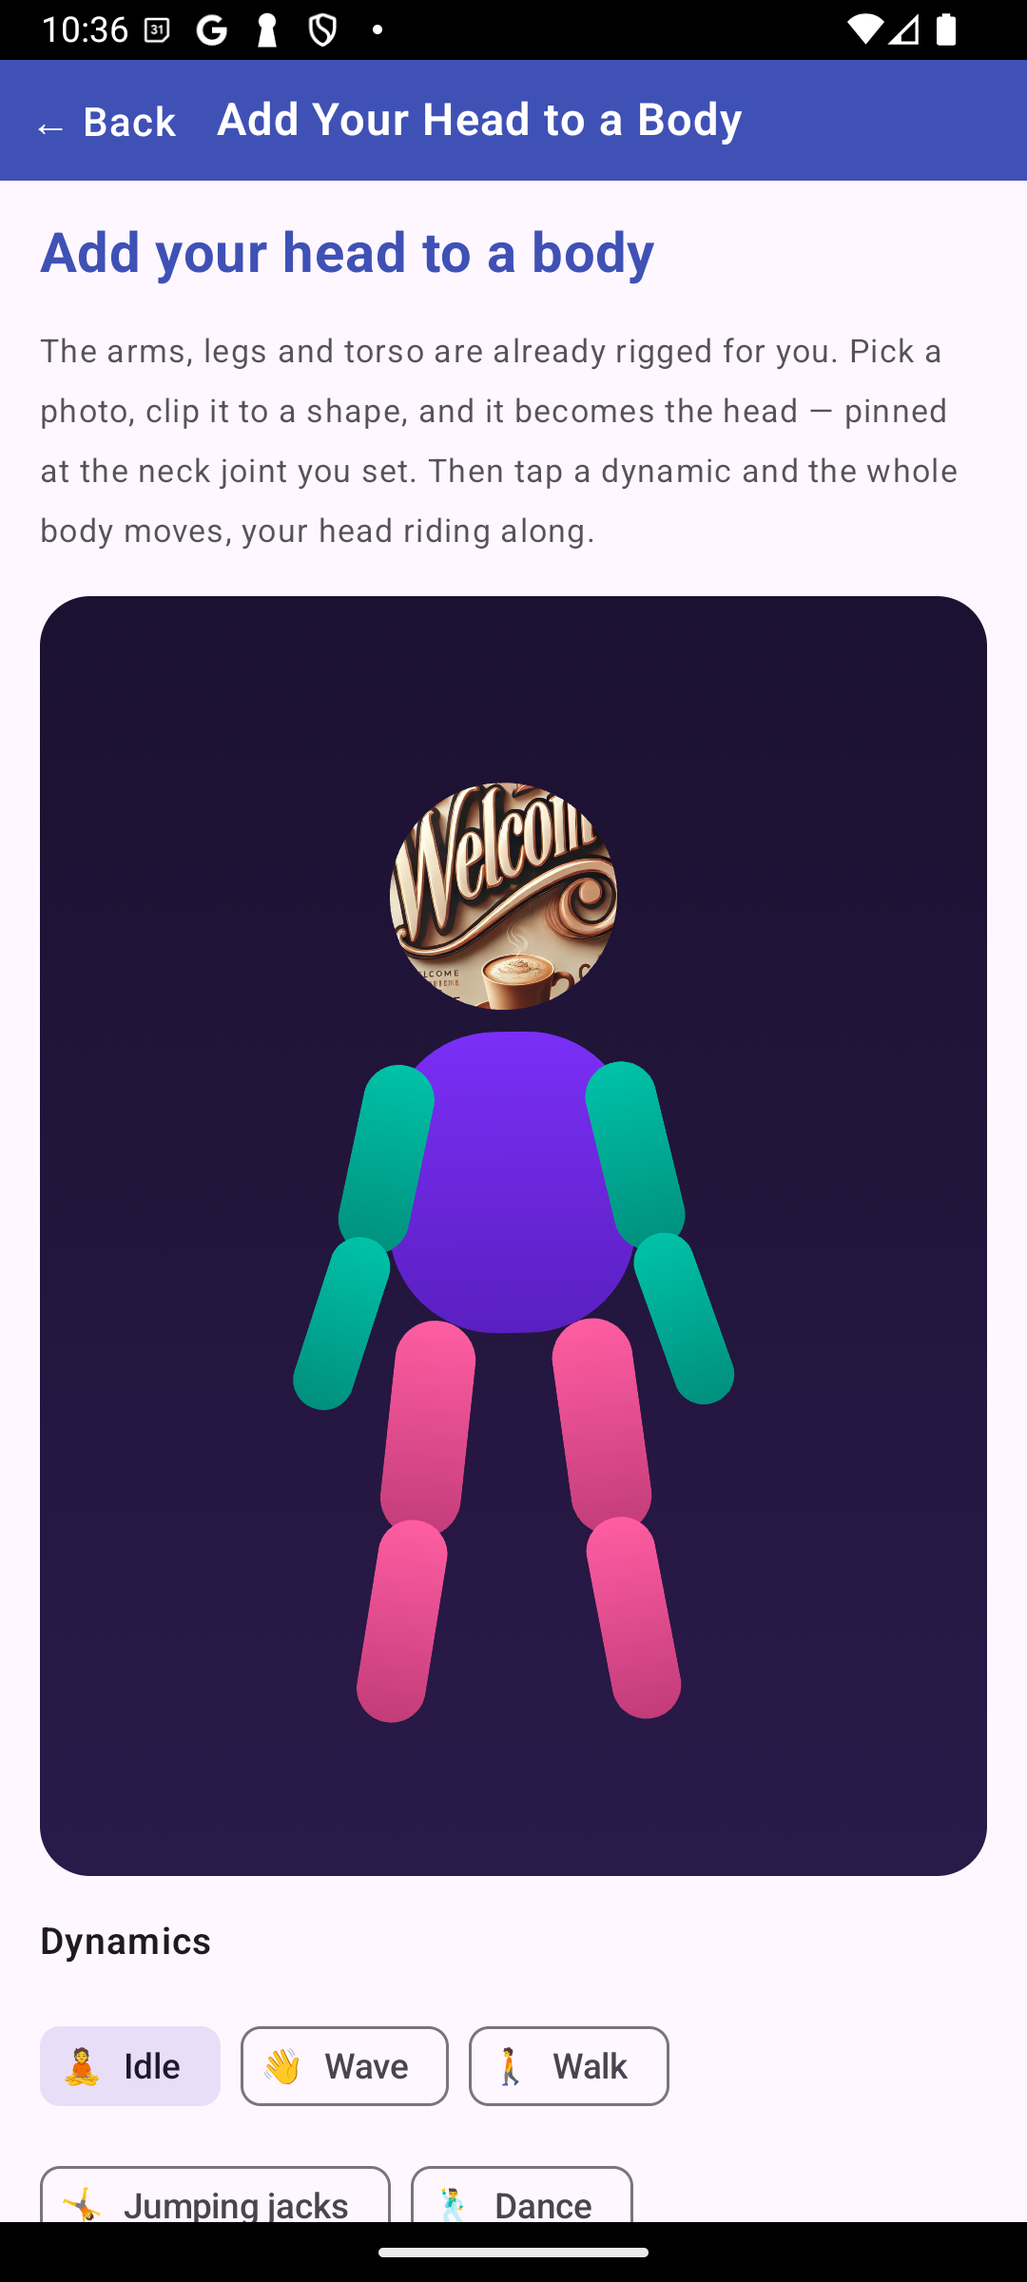
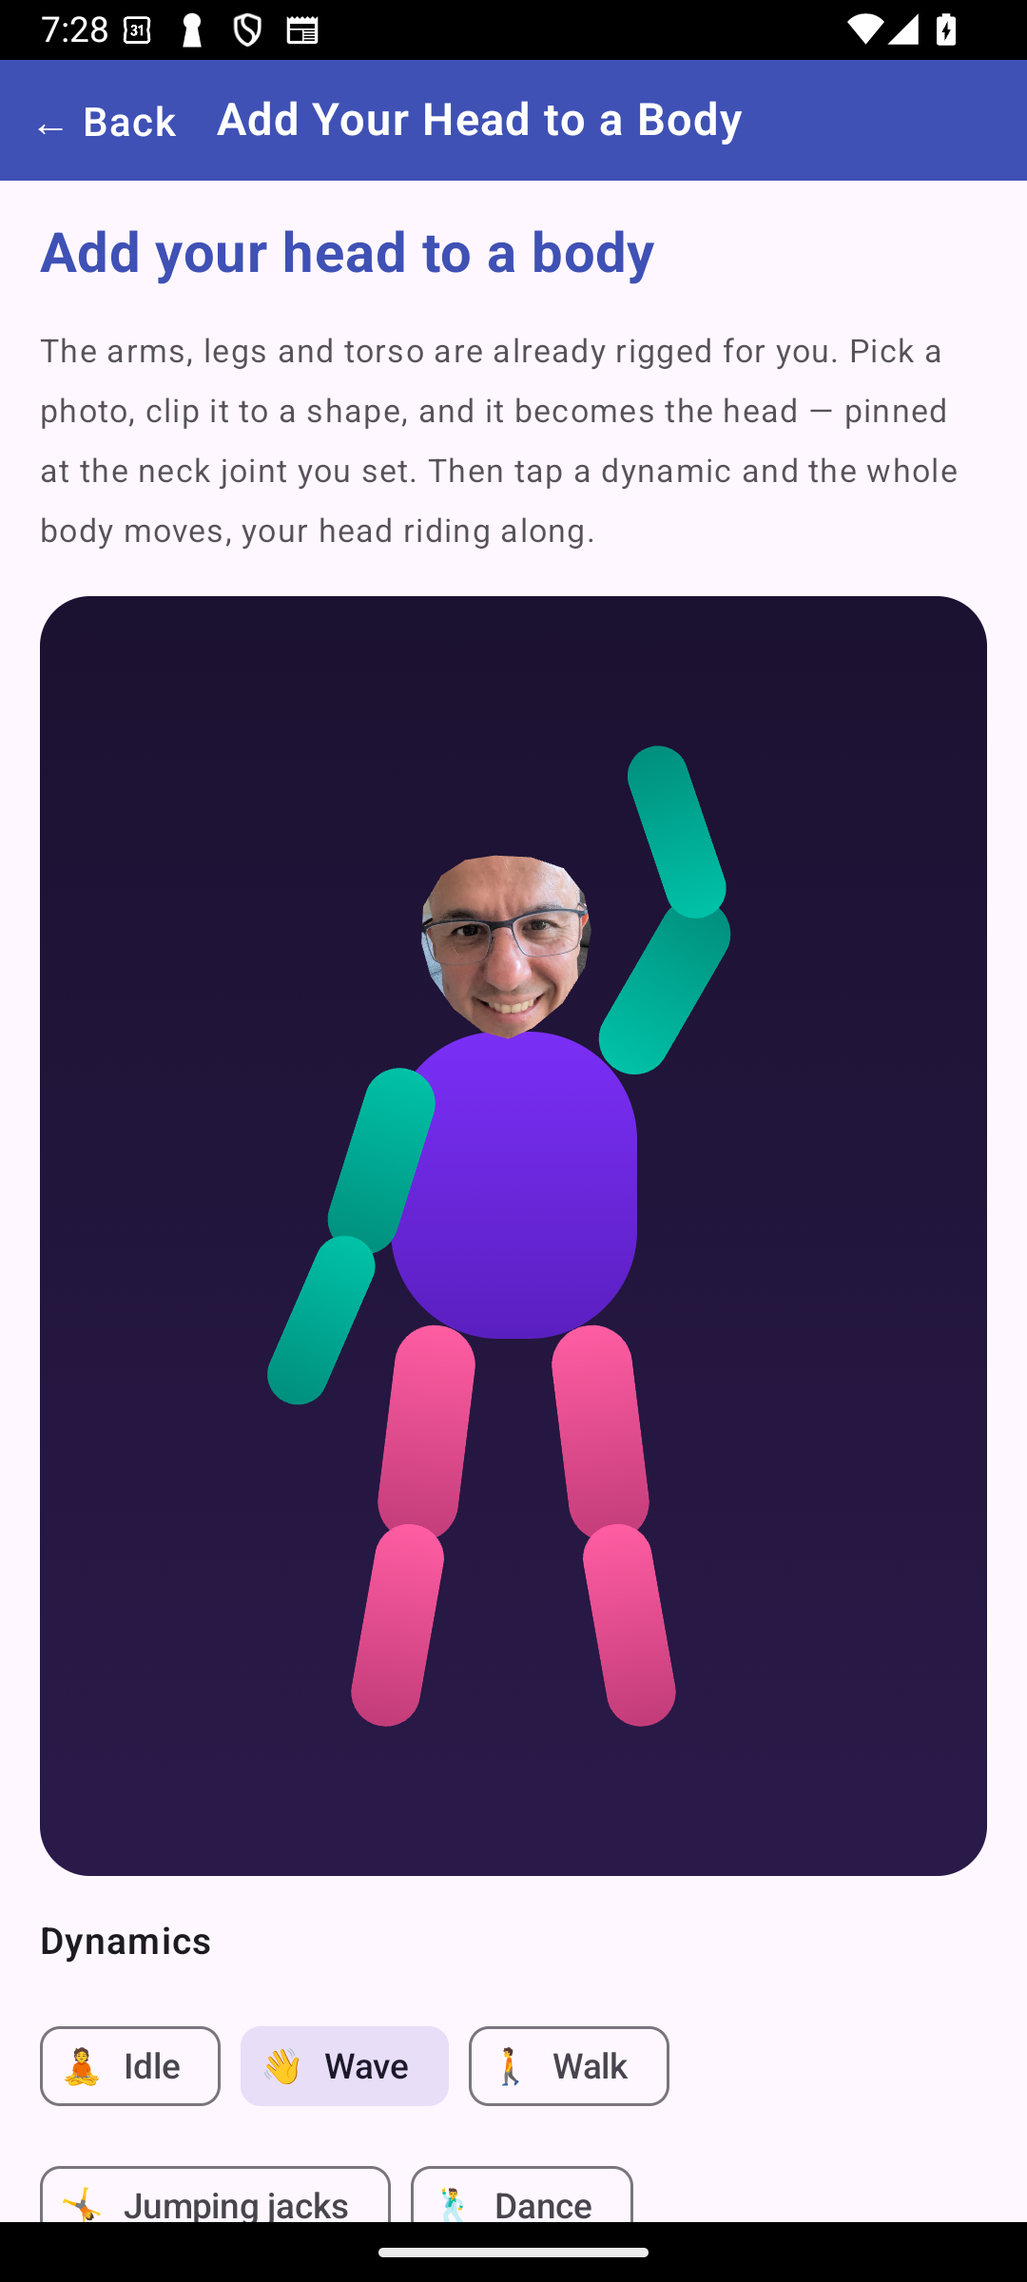
feat(shape): free-form polygon lasso (OGPolygonShape) + OGImageView clipShape — 1.3.0
New com.solidkey.painpoints.shape.OGPolygonShape — a Compose Shape built from an ordered list of normalized 0..1 vertices joined by line segments (auto-closed) — plus OGPoint and the pure scalePolygonPoints helper. It's the AI-friendly clip primitive: the outline is just data, so a segmentation model or an on-image finger-draw can produce it with no external editor.

OGImageView gains one optional trailing param clipShape: Shape? = null; when set it overrides displayShape/cornerRadius and clips to that outline via the same GPU Modifier.clip mask (no runtime cost for a still image). Fully backward-compatible.

Docs: docs/POLYGON_SHAPE.md, README feature row + code sample, llms.txt API index, CHANGELOG 1.3.0, version 1.2.0 -> 1.3.0. Tests: 5 new pure-math tests (green). Also refreshes the body-rig README screenshots to show a real head cut out by the lasso and seated on the torso.

diff --git a/library/src/commonMain/kotlin/com/solidkey/painpoints/shape/OGPolygonShape.kt b/library/src/commonMain/kotlin/com/solidkey/painpoints/shape/OGPolygonShape.kt
@@ -1,0 +1,64 @@
+package com.solidkey.painpoints.shape
+
+import androidx.compose.ui.geometry.Size
+import androidx.compose.ui.graphics.Outline
+import androidx.compose.ui.graphics.Path
+import androidx.compose.ui.graphics.Shape
+import androidx.compose.ui.unit.Density
+import androidx.compose.ui.unit.LayoutDirection
+
+/**
+ * A single vertex in **normalized** coordinates: `(0,0)` = top-left of the target box,
+ * `(1,1)` = bottom-right. Values outside `0..1` are clamped when the polygon is rasterized,
+ * so a segmentation model / detector or a finger-drawn outline can hand over raw coordinates
+ * without worrying about the exact box size.
+ */
+data class OGPoint(val x: Float, val y: Float)
+
+/**
+ * A free-form clip shape built from an ordered list of [points] joined by straight **line
+ * segments** — a polygon "lasso". This is the AI-friendly primitive: the outline is just data
+ * (a `List<OGPoint>` in `0..1` space), so the vertices an on-image drawing OR a segmentation
+ * model produces drop straight in with no external image editor. The polygon is always closed
+ * (the last point links back to the first).
+ *
+ * Clipping is the same `Modifier.clip(shape)` GPU mask the built-in [OGShapeType]s use, so for a
+ * still image it is drawn once = no runtime cost. Pass it to
+ * [com.solidkey.painpoints.image.OGImageView]'s `clipShape` (or to any `Modifier.clip`) to keep
+ * only the region inside the outline — e.g. lasso a head out of a photo, no external tool.
+ *
+ * Fewer than 3 points is degenerate (no enclosed area) and yields an empty outline (nothing
+ * shown) rather than throwing.
+ */
+class OGPolygonShape(val points: List<OGPoint>) : Shape {
+    override fun createOutline(size: Size, layoutDirection: LayoutDirection, density: Density): Outline {
+        val abs = scalePolygonPoints(points, size.width, size.height)
+        val path = Path().apply {
+            if (abs.size >= 3) {
+                moveTo(abs[0].x, abs[0].y)
+                for (i in 1 until abs.size) lineTo(abs[i].x, abs[i].y)
+                close()
+            }
+        }
+        return Outline.Generic(path)
+    }
+
+    companion object {
+        /** Convenience builder from raw `(x, y)` pairs in normalized `0..1` space. */
+        fun of(vararg points: Pair<Float, Float>): OGPolygonShape =
+            OGPolygonShape(points.map { OGPoint(it.first, it.second) })
+    }
+}
+
+/**
+ * Maps normalized [points] (`0..1`) onto a [width]×[height] box, clamping every coordinate into
+ * range so out-of-bounds input can't escape the box. Returns an empty list for a degenerate
+ * polygon (fewer than 3 points). Pure + platform-independent so it can be unit-tested directly;
+ * [OGPolygonShape.createOutline] is a thin wrapper over it.
+ */
+fun scalePolygonPoints(points: List<OGPoint>, width: Float, height: Float): List<OGPoint> {
+    if (points.size < 3) return emptyList()
+    return points.map { p ->
+        OGPoint(p.x.coerceIn(0f, 1f) * width, p.y.coerceIn(0f, 1f) * height)
+    }
+}

diff --git a/library/src/commonTest/kotlin/com/solidkey/painpoints/shape/OGPolygonShapeTest.kt b/library/src/commonTest/kotlin/com/solidkey/painpoints/shape/OGPolygonShapeTest.kt
@@ -1,0 +1,58 @@
+package com.solidkey.painpoints.shape
+
+import kotlin.test.Test
+import kotlin.test.assertEquals
+import kotlin.test.assertTrue
+
+/**
+ * Covers the pure derivation behind [OGPolygonShape] — [scalePolygonPoints], which maps the
+ * normalized (0..1) lasso vertices onto a concrete box and clamps out-of-range input.
+ * [OGPolygonShape.createOutline] is a thin Path wrapper over exactly this, so pinning the math
+ * here pins the clip behaviour (correct scaling, clamping, and graceful degenerate handling).
+ */
+class OGPolygonShapeTest {
+
+    private val triangle = listOf(OGPoint(0.5f, 0f), OGPoint(1f, 1f), OGPoint(0f, 1f))
+
+    @Test
+    fun scalesNormalizedPointsToBox() {
+        val scaled = scalePolygonPoints(triangle, width = 200f, height = 100f)
+        assertEquals(3, scaled.size)
+        assertEquals(OGPoint(100f, 0f), scaled[0])   // 0.5*200, 0*100
+        assertEquals(OGPoint(200f, 100f), scaled[1]) // 1*200, 1*100
+        assertEquals(OGPoint(0f, 100f), scaled[2])   // 0*200, 1*100
+    }
+
+    @Test
+    fun clampsOutOfRangeCoordinatesIntoBox() {
+        val pts = listOf(OGPoint(-0.5f, 2f), OGPoint(1.5f, -1f), OGPoint(0.5f, 0.5f))
+        val scaled = scalePolygonPoints(pts, width = 100f, height = 100f)
+        // -0.5 -> 0, 2 -> 1 (i.e. 100); 1.5 -> 1 (100), -1 -> 0; midpoint stays put.
+        assertEquals(OGPoint(0f, 100f), scaled[0])
+        assertEquals(OGPoint(100f, 0f), scaled[1])
+        assertEquals(OGPoint(50f, 50f), scaled[2])
+        // Nothing escapes the box.
+        assertTrue(scaled.all { it.x in 0f..100f && it.y in 0f..100f })
+    }
+
+    @Test
+    fun degeneratePolygonYieldsEmpty() {
+        assertTrue(scalePolygonPoints(emptyList(), 100f, 100f).isEmpty())
+        assertTrue(scalePolygonPoints(listOf(OGPoint(0f, 0f)), 100f, 100f).isEmpty())
+        assertTrue(scalePolygonPoints(listOf(OGPoint(0f, 0f), OGPoint(1f, 1f)), 100f, 100f).isEmpty())
+    }
+
+    @Test
+    fun ofBuilderMatchesPointList() {
+        val a = OGPolygonShape.of(0.5f to 0f, 1f to 1f, 0f to 1f)
+        assertEquals(triangle, a.points)
+    }
+
+    @Test
+    fun preservesVertexOrder() {
+        // Order matters for line-segment shapes (winding) — scaling must not reorder.
+        val scaled = scalePolygonPoints(triangle, 10f, 10f)
+        assertEquals(5f, scaled[0].x, 0.0001f)  // first stays first (apex)
+        assertEquals(0f, scaled[2].x, 0.0001f)  // last stays last (bottom-left)
+    }
+}

diff --git a/library/src/commonMain/kotlin/com/solidkey/painpoints/image/OGImageView.kt b/library/src/commonMain/kotlin/com/solidkey/painpoints/image/OGImageView.kt
@@ -12,6 +12,7 @@ import androidx.compose.ui.Alignment
 import androidx.compose.ui.Modifier
 import androidx.compose.ui.draw.clip
 import androidx.compose.ui.graphics.Color
+import androidx.compose.ui.graphics.Shape
 import androidx.compose.ui.graphics.painter.ColorPainter
 import androidx.compose.ui.graphics.painter.Painter
 import androidx.compose.ui.layout.ContentScale
@@ -46,6 +47,10 @@ fun OGImageView(
     // CenterStart the left edge, etc. Center = default (unchanged behavior). It also positions a
     // letterboxed image when contentScale = Fit.
     alignment: Alignment = Alignment.Center,
+    // ✂ Free-form clip override. When non-null (e.g. an OGPolygonShape lasso) it takes precedence
+    // over displayShape/cornerRadius and masks the photo to that arbitrary outline — the same GPU
+    // clip, just any Path. Use it to keep only a hand-/AI-outlined region (e.g. lasso a head).
+    clipShape: Shape? = null,
     transformations: SnapshotStateList<OGImageTransformation> = mutableStateListOf(),
     draggable: Boolean = false,
     x: MutableState<Float>? = null,
@@ -126,13 +131,14 @@ fun OGImageView(
 
     // 🔷 Shape crop. RECTANGLE + 0dp corner is a no-op (default), so behavior is unchanged for
     // existing callers; any other shape masks the photo via a GPU clip (drawn once = no perf loss).
-    val isShaped = displayShape != OGShapeType.RECTANGLE || cornerRadius > 0.dp
-    val clipShape = remember(displayShape, cornerRadius) { displayShape.toShape(cornerRadius) }
+    val isShaped = clipShape != null || displayShape != OGShapeType.RECTANGLE || cornerRadius > 0.dp
+    val builtInShape = remember(displayShape, cornerRadius) { displayShape.toShape(cornerRadius) }
+    val effectiveShape = clipShape ?: builtInShape
 
     Box(
         modifier = modifier
             .zIndex(zIndex) // ✅ apply stacking order
-            .then(if (isShaped) Modifier.clip(clipShape) else Modifier) // 🔷 crop photo into shape
+            .then(if (isShaped) Modifier.clip(effectiveShape) else Modifier) // 🔷 crop photo into shape
             .then(
                 if (effectiveGestureHandler != null)
                     Modifier.ogPointerGestureWrapper(

diff --git a/docs/POLYGON_SHAPE.md b/docs/POLYGON_SHAPE.md
@@ -1,0 +1,95 @@
+# Free-form Polygon Lasso — `com.solidkey.painpoints.shape.OGPolygonShape` (KMPMedia 1.3.0)
+
+The built-in [`OGShapeType`](../library/src/commonMain/kotlin/com/solidkey/painpoints/shape/OGShape.kt)
+values (circle / triangle / diamond / …) cover the common cases. `OGPolygonShape` covers the rest:
+clip a photo or video to **any** outline — a head, a logo, a hand-drawn region — described as a list
+of straight **line segments**.
+
+It is a plain Compose `Shape`, so it drops into the same `Modifier.clip(shape)` GPU mask the built-in
+shapes use — for a still image, drawn once = **no runtime cost**.
+
+## AI-friendly by design
+
+The outline is *just data*: an ordered list of vertices in **normalized `0..1`** space
+(`(0,0)` = top-left of the box, `(1,1)` = bottom-right), joined by line segments and auto-closed. That
+means the exact same list can come from:
+
+- an **AI / segmentation model** that outputs the region boundary of an object, or
+- a **user drawing** the outline on the image with a finger,
+
+…and it drops straight in — **no external image editor**. Coordinates outside `0..1` are clamped into
+the box, so raw detector output is safe to pass.
+
+## API
+
+```kotlin
+// A vertex in normalized 0..1 coordinates (top-left origin).
+data class OGPoint(val x: Float, val y: Float)
+
+// A free-form polygon built from an ordered list of points joined by line segments (auto-closed).
+// Fewer than 3 points is degenerate → empty outline (nothing shown), never throws.
+class OGPolygonShape(val points: List<OGPoint>) : Shape {
+    companion object {
+        fun of(vararg points: Pair<Float, Float>): OGPolygonShape   // convenience: raw (x, y) pairs
+    }
+}
+
+// Pure, platform-independent helper the Shape wraps (unit-tested directly): maps + clamps points to a box.
+fun scalePolygonPoints(points: List<OGPoint>, width: Float, height: Float): List<OGPoint>
+```
+
+`OGImageView` gained one optional param to accept it:
+
+```kotlin
+@Composable fun OGImageView(
+    source: OGSourceType,
+    // …
+    clipShape: Shape? = null,   // NEW: when non-null, overrides displayShape/cornerRadius and clips to this outline
+    // …
+)
+```
+
+`clipShape` is fully backward-compatible: leave it `null` (the default) and `displayShape` +
+`cornerRadius` behave exactly as before. Because `OGPolygonShape` is an ordinary `Shape`, you can also
+apply it to **any** composable with `Modifier.clip(OGPolygonShape.of(...))` — including a video surface.
+
+## Example — cut out a head
+
+```kotlin
+import com.solidkey.painpoints.shape.OGPolygonShape
+
+// An outline the AI traced around the head (or the user drew), in 0..1 space.
+val head = OGPolygonShape.of(
+    0.48f to 0.02f, 0.64f to 0.04f, 0.78f to 0.10f, 0.86f to 0.22f,
+    0.88f to 0.38f, 0.84f to 0.54f, 0.73f to 0.69f, 0.59f to 0.79f,
+    0.48f to 0.83f, 0.37f to 0.79f, 0.25f to 0.68f, 0.16f to 0.53f,
+    0.13f to 0.38f, 0.15f to 0.22f, 0.24f to 0.09f, 0.35f to 0.03f,
+)
+
+OGImageView(
+    source = OGImageResourceFileType("portrait", OGImageFormat.JPEG),
+    modifier = Modifier.size(220.dp),
+    contentScale = ContentScale.Crop,   // fill the box so the outline lines up with the photo
+    clipShape = head,                   // keep only the region inside the outline
+    onEventTriggered = { _, _ -> },
+    onError = {},
+)
+```
+
+> **Coordinate space.** The outline is normalized to the `OGImageView` *box*, and the photo is placed in
+> that box by `contentScale` + `alignment`. For the outline to line up with the image, keep the mapping
+> 1:1 — e.g. a square box with a square source at `ContentScale.Crop`, center alignment (as the demo
+> does). If you zoom/pan the photo, re-derive the outline in the same frame.
+
+This is exactly how the demo's **"🧍 Add Your Head to a Body"** screen
+([`BodyRigScreen.kt`](https://github.com/SolidKeyAB/kmpmedia-demo)) cuts out just the head — the "Head
+lasso" chip feeds an AI-traced `OGPolygonShape` into the head `OGImageView`, no external tool.
+
+## Notes
+
+- **Winding / order matters.** Points are connected in the order given; a self-crossing list produces a
+  self-intersecting polygon (Compose fills by non-zero winding).
+- **Concave is fine.** Any simple polygon works — concave outlines (e.g. tracing around ears/jaw) clip
+  correctly.
+- **Cost.** One GPU clip mask, identical to the built-in shapes — negligible for a still image, and the
+  same mechanism the shipped "in any shape" video already runs at 60fps.

diff --git a/README.md b/README.md
@@ -17,6 +17,7 @@ Basic "show an SVG on both platforms" is now a solved problem (Coil 3, Kamel, Co
 | **Runtime SVG animation** (SMIL `<animate>`) | ✅ | ❌ | ❌ |
 | **Wrap any static image/SVG → animated** (`OGAnimatedImage`) | ✅ | ❌ | ❌ |
 | **Shape-crop** image & video to any shape (circle/triangle/…) | ✅ | ❌ | ❌ |
+| **Free-form polygon lasso** — clip to any AI-/hand-drawn outline (`OGPolygonShape`) | ✅ | ❌ | ❌ |
 | **Depth / layer management** — fly over/under + depth-of-field blur (`Modifier.ogDepth`) | ✅ | ❌ | ❌ |
 | **Interactive / draggable / gesture** layers | ✅ | ❌ | ❌ |
 | Bundled image + audio + video suite | ✅ | ❌ | ❌ |
@@ -59,7 +60,7 @@ KMPMedia ships with a full **Compose Multiplatform demo app** (Android + iOS) bu
 
 - **✨ Animate a Static Image** — take a fully-static SVG (zero `<animate>` tags) and bring it alive with the animation primitives: Scale / Rotate / Fade / Slide, combined live.
 - **✂ Crop a Photo into a Shape** — crop any photo into a circle / triangle / diamond with pinch-to-zoom, drag-to-pan and a 3×3 focal grid — one GPU clip, drawn once, so it's free.
-- **🧍 Add Your Head to a Body** — an *already-rigged* body (torso + two arms + two legs, every segment a jointed chain). Drop in a photo, clip it to a shape and it becomes the **head**, pinned at the neck joint you set (size + tilt). Then tap **Wave / Walk / Jumping jacks / Dance** and the whole body animates, your head riding along. The head is one `OGImageView` shape-crop; the rig and every dynamic are plain Compose, identical on Android & iOS.
+- **🧍 Add Your Head to a Body** — an *already-rigged* body (torso + two arms + two legs, every segment a jointed chain). Drop in a photo and the **✂ head lasso** ([`OGPolygonShape`](docs/POLYGON_SHAPE.md)) clips out *just the head* — no external editor — pinned at the neck joint you set (size + tilt); or fall back to a circle / triangle / diamond. Then tap **Wave / Walk / Jumping jacks / Dance** and the whole body animates, your head riding along. The head is one `OGImageView` clip; the rig and every dynamic are plain Compose, identical on Android & iOS.
 - **🦾 Jointed Shapes** — the building block behind it: shape-clipped photos pinned at one pixel with a movable angular limit, chained into a draggable two-link arm and a clamped pendulum.
 - **🎬 Video Playback** — one cross-platform `OGAVPlayer` (ExoPlayer on Android, AVPlayer on iOS), re-framed live into any shape, with transport controls, loop and load-any-URL.
 - **🛸 UFO Dodge (mini-game)** — every sprite is a static SVG animated by the library; crop your own photos into shapes and drop them into the field as live game objects.
@@ -237,6 +238,26 @@ OGImageView(
 ```
 
 > The same shape-crop applies to video via `OGAVPlayer(config = OGPlayerConfig(displayShape = OGShapeType.CIRCLE))`.
+
+Need to keep only an *arbitrary* region — a head, a logo, a hand-drawn area? Clip to a **free-form polygon lasso** instead of a built-in shape. The outline is just a list of normalized `0..1` vertices joined by line segments, so an AI/segmentation model or an on-image finger-draw can produce it directly — no external editor:
+
+```kotlin
+import com.solidkey.painpoints.shape.OGPolygonShape
+
+OGImageView(
+    source = OGImageResourceFileType("portrait", OGImageFormat.JPEG),
+    modifier = Modifier.size(220.dp),
+    contentScale = ContentScale.Crop,
+    clipShape = OGPolygonShape.of(          // vertices in 0..1 space (top-left origin), any count ≥ 3
+        0.48f to 0.02f, 0.86f to 0.22f, 0.84f to 0.54f,
+        0.48f to 0.83f, 0.16f to 0.53f, 0.15f to 0.22f,
+    ),                                      // ← clips to exactly this outline; see docs/POLYGON_SHAPE.md
+    onEventTriggered = { _, _ -> },
+    onError = { /* ... */ },
+)
+```
+
+See [**docs/POLYGON_SHAPE.md**](docs/POLYGON_SHAPE.md) for the full API and how the demo's "Add Your Head to a Body" uses it to cut out a head.
 
 ### Play video / audio
 

diff --git a/CHANGELOG.md b/CHANGELOG.md
@@ -4,6 +4,20 @@ All notable changes to **KMPMedia** are documented here. The format follows
 [Keep a Changelog](https://keepachangelog.com/), and the project aims for
 [Semantic Versioning](https://semver.org/).
 
+## [1.3.0] — 2026-09-16
+
+> Adds a **free-form polygon lasso** clip shape — clip an image (or any composable) to an arbitrary outline of line segments, not just the built-in circle/triangle/…. Purely additive: `OGImageView` gains one optional trailing param, every existing call compiles unchanged.
+
+### Added
+- `OGPolygonShape(points: List<OGPoint>)` (+ `OGPolygonShape.of(vararg pairs)`) in `com.solidkey.painpoints.shape` — a Compose `Shape` built from an ordered list of vertices in **normalized `0..1`** space joined by straight line segments (auto-closed). It's the **AI-friendly** clip primitive: the outline is just data, so a segmentation model or an on-image finger-draw can produce it with no external editor. `<3` points → empty outline (never throws); out-of-range coords are clamped into the box.
+- `OGPoint(x, y)` — a normalized vertex (top-left origin).
+- `scalePolygonPoints(points, width, height)` — the pure, unit-tested helper the shape wraps (maps + clamps points to a box).
+- `OGImageView(..., clipShape: Shape? = null)` — when non-null, clips to that arbitrary outline (e.g. an `OGPolygonShape`), taking precedence over `displayShape`/`cornerRadius`. Same GPU `Modifier.clip` mask = no runtime cost for a still image.
+
+### Notes
+- Backward-compatible: `clipShape` is an optional trailing param defaulting to `null`; `displayShape`/`cornerRadius` behave exactly as before. Because `OGPolygonShape` is an ordinary `Shape`, it also works with `Modifier.clip(...)` on any composable (including a video surface). See `docs/POLYGON_SHAPE.md`.
+- The demo's **"Add Your Head to a Body"** screen uses it (the "Head lasso" chip) to cut out just the head from a photo.
+
 ## [1.2.0] — 2026-09-15
 
 > Adds **interactive video** — a live, reactive playback timeline plus timed cue points, all in plain Compose. Purely additive: every existing `OGAVPlayer` call compiles unchanged (the two new params are optional and trailing).
